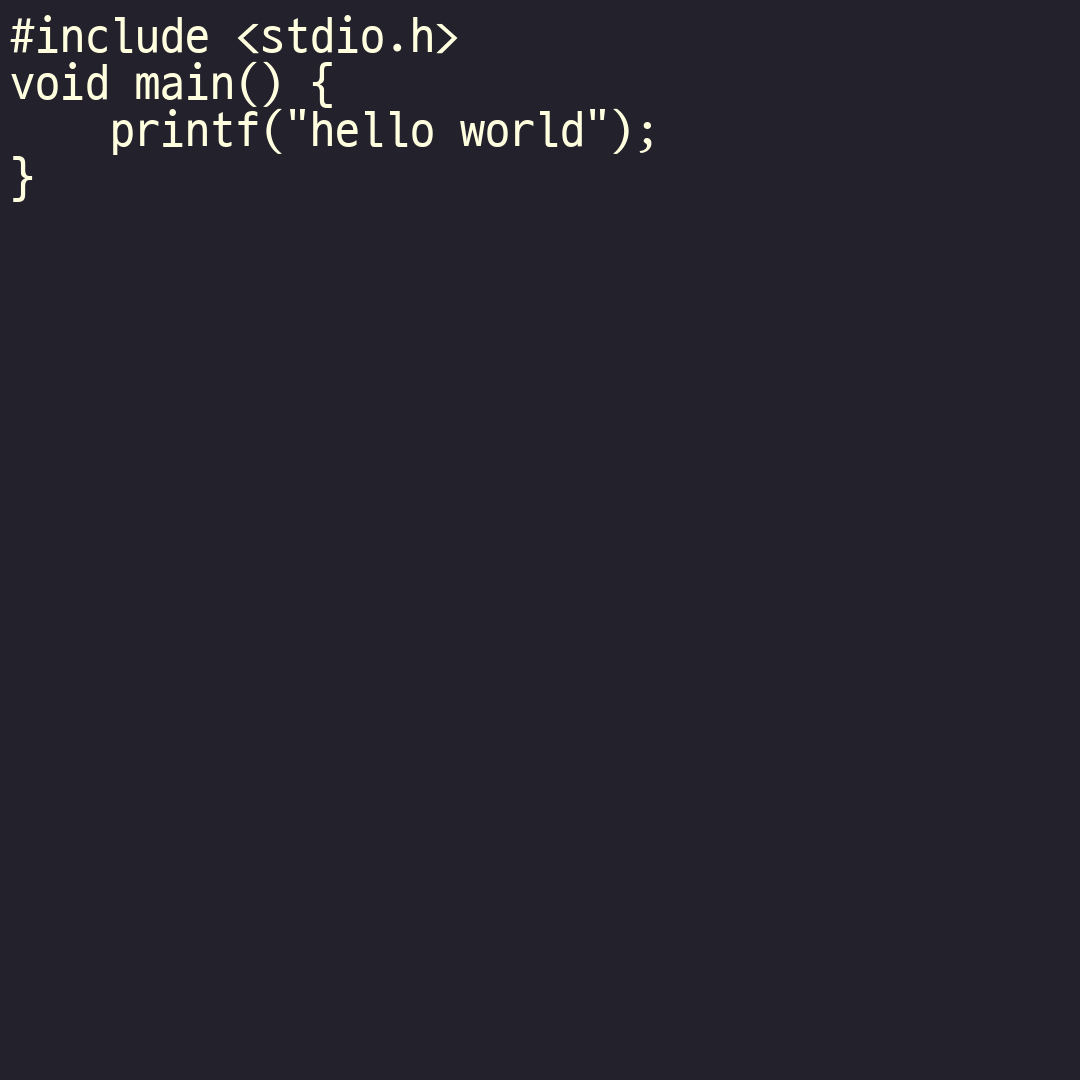
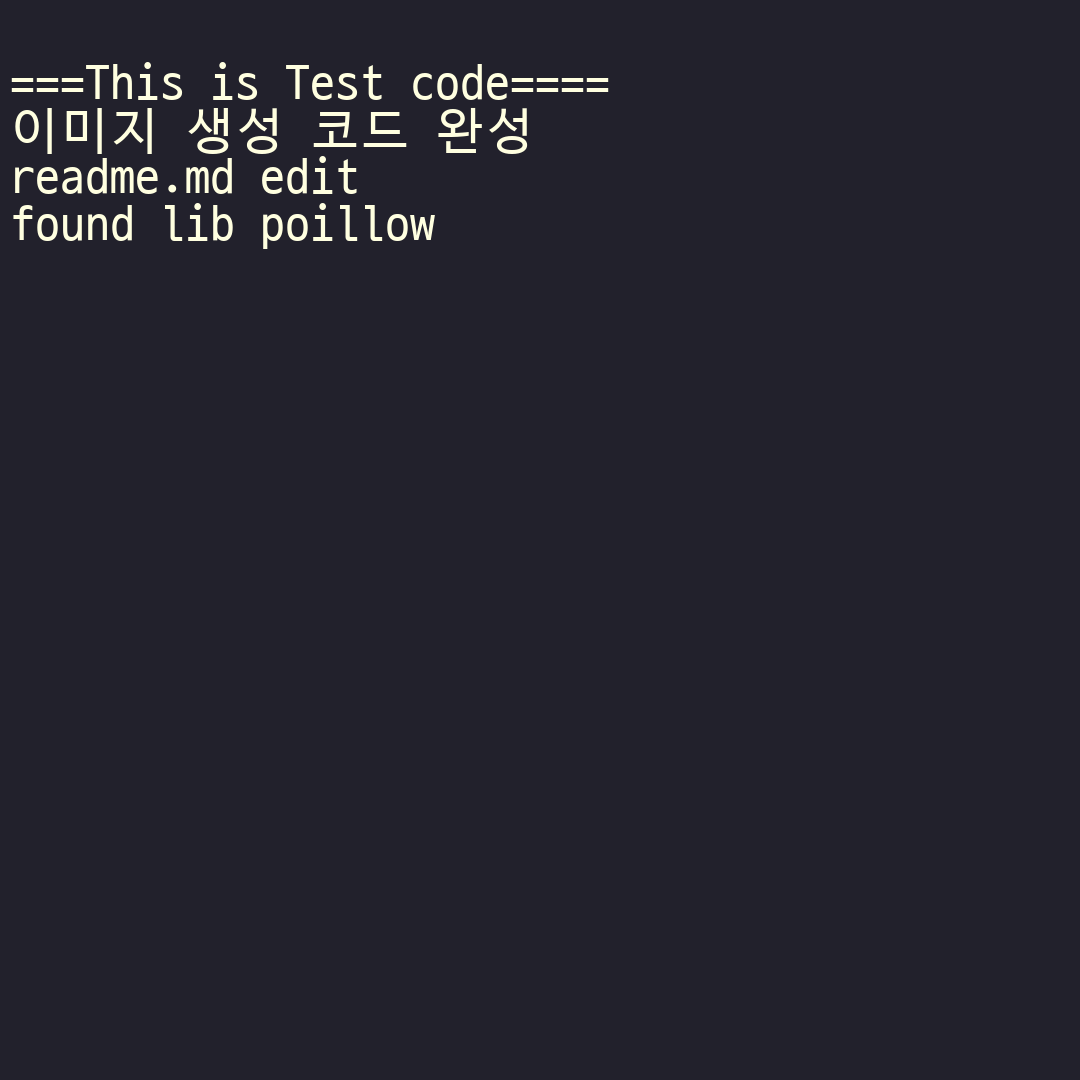
monochrome text imaging.py

Changed region(s): [[0.0, 0.0, 0.5806, 0.2444]]

diff --git a/imaging.py b/imaging.py
@@ -4,18 +4,15 @@ fontPath = "D2Coding.ttf"
 W, H = (1080,1080)
 bkColor = "#22212C"
 fontColor = "#FFFFE0"
-msg = """#include <stdio.h>
-void main() {
-    printf("hello world");
-}
-"""
-
 sans16  =  ImageFont.truetype ( fontPath, 50)
 
-im = Image.new("RGB", (W,H), ImageColor.getrgb(bkColor))
-draw = ImageDraw.Draw(im)
-w, h = draw.textsize(msg)
 
-draw.text((10,10), msg, font=sans16, fill=ImageColor.getrgb(fontColor))
+def imageMaker(msg):
+    print(type(msg))
+    im = Image.new("RGB", (W,H), ImageColor.getrgb(bkColor))
+    draw = ImageDraw.Draw(im)
+   # w, h = draw.textsize(msg)
 
-im.save("code.png", "PNG")
+    draw.text((10,10), msg, font=sans16, fill=ImageColor.getrgb(fontColor))
+
+    im.save("code.png", "PNG")

diff --git a/main.py b/main.py
@@ -1,10 +1,15 @@
 from git import *
 import datetime
+import imaging
 
 repo = Repo("/home/minpeter/instagram_github_contribution")
 
-commits = list(repo.iter_commits("main", max_count=10))
+commits = list(repo.iter_commits("main", max_count=3))
 
+
+msg = """
+===This is Test code====
+"""
 
 
 for i in commits:
@@ -12,4 +17,7 @@ for i in commits:
     nd = datetime.datetime.now().date() #현제 날짜만
     if nd != dd:
         quit()
-    print(i.message)
+    msg += str(i.message)
+
+
+imaging.imageMaker(msg)
